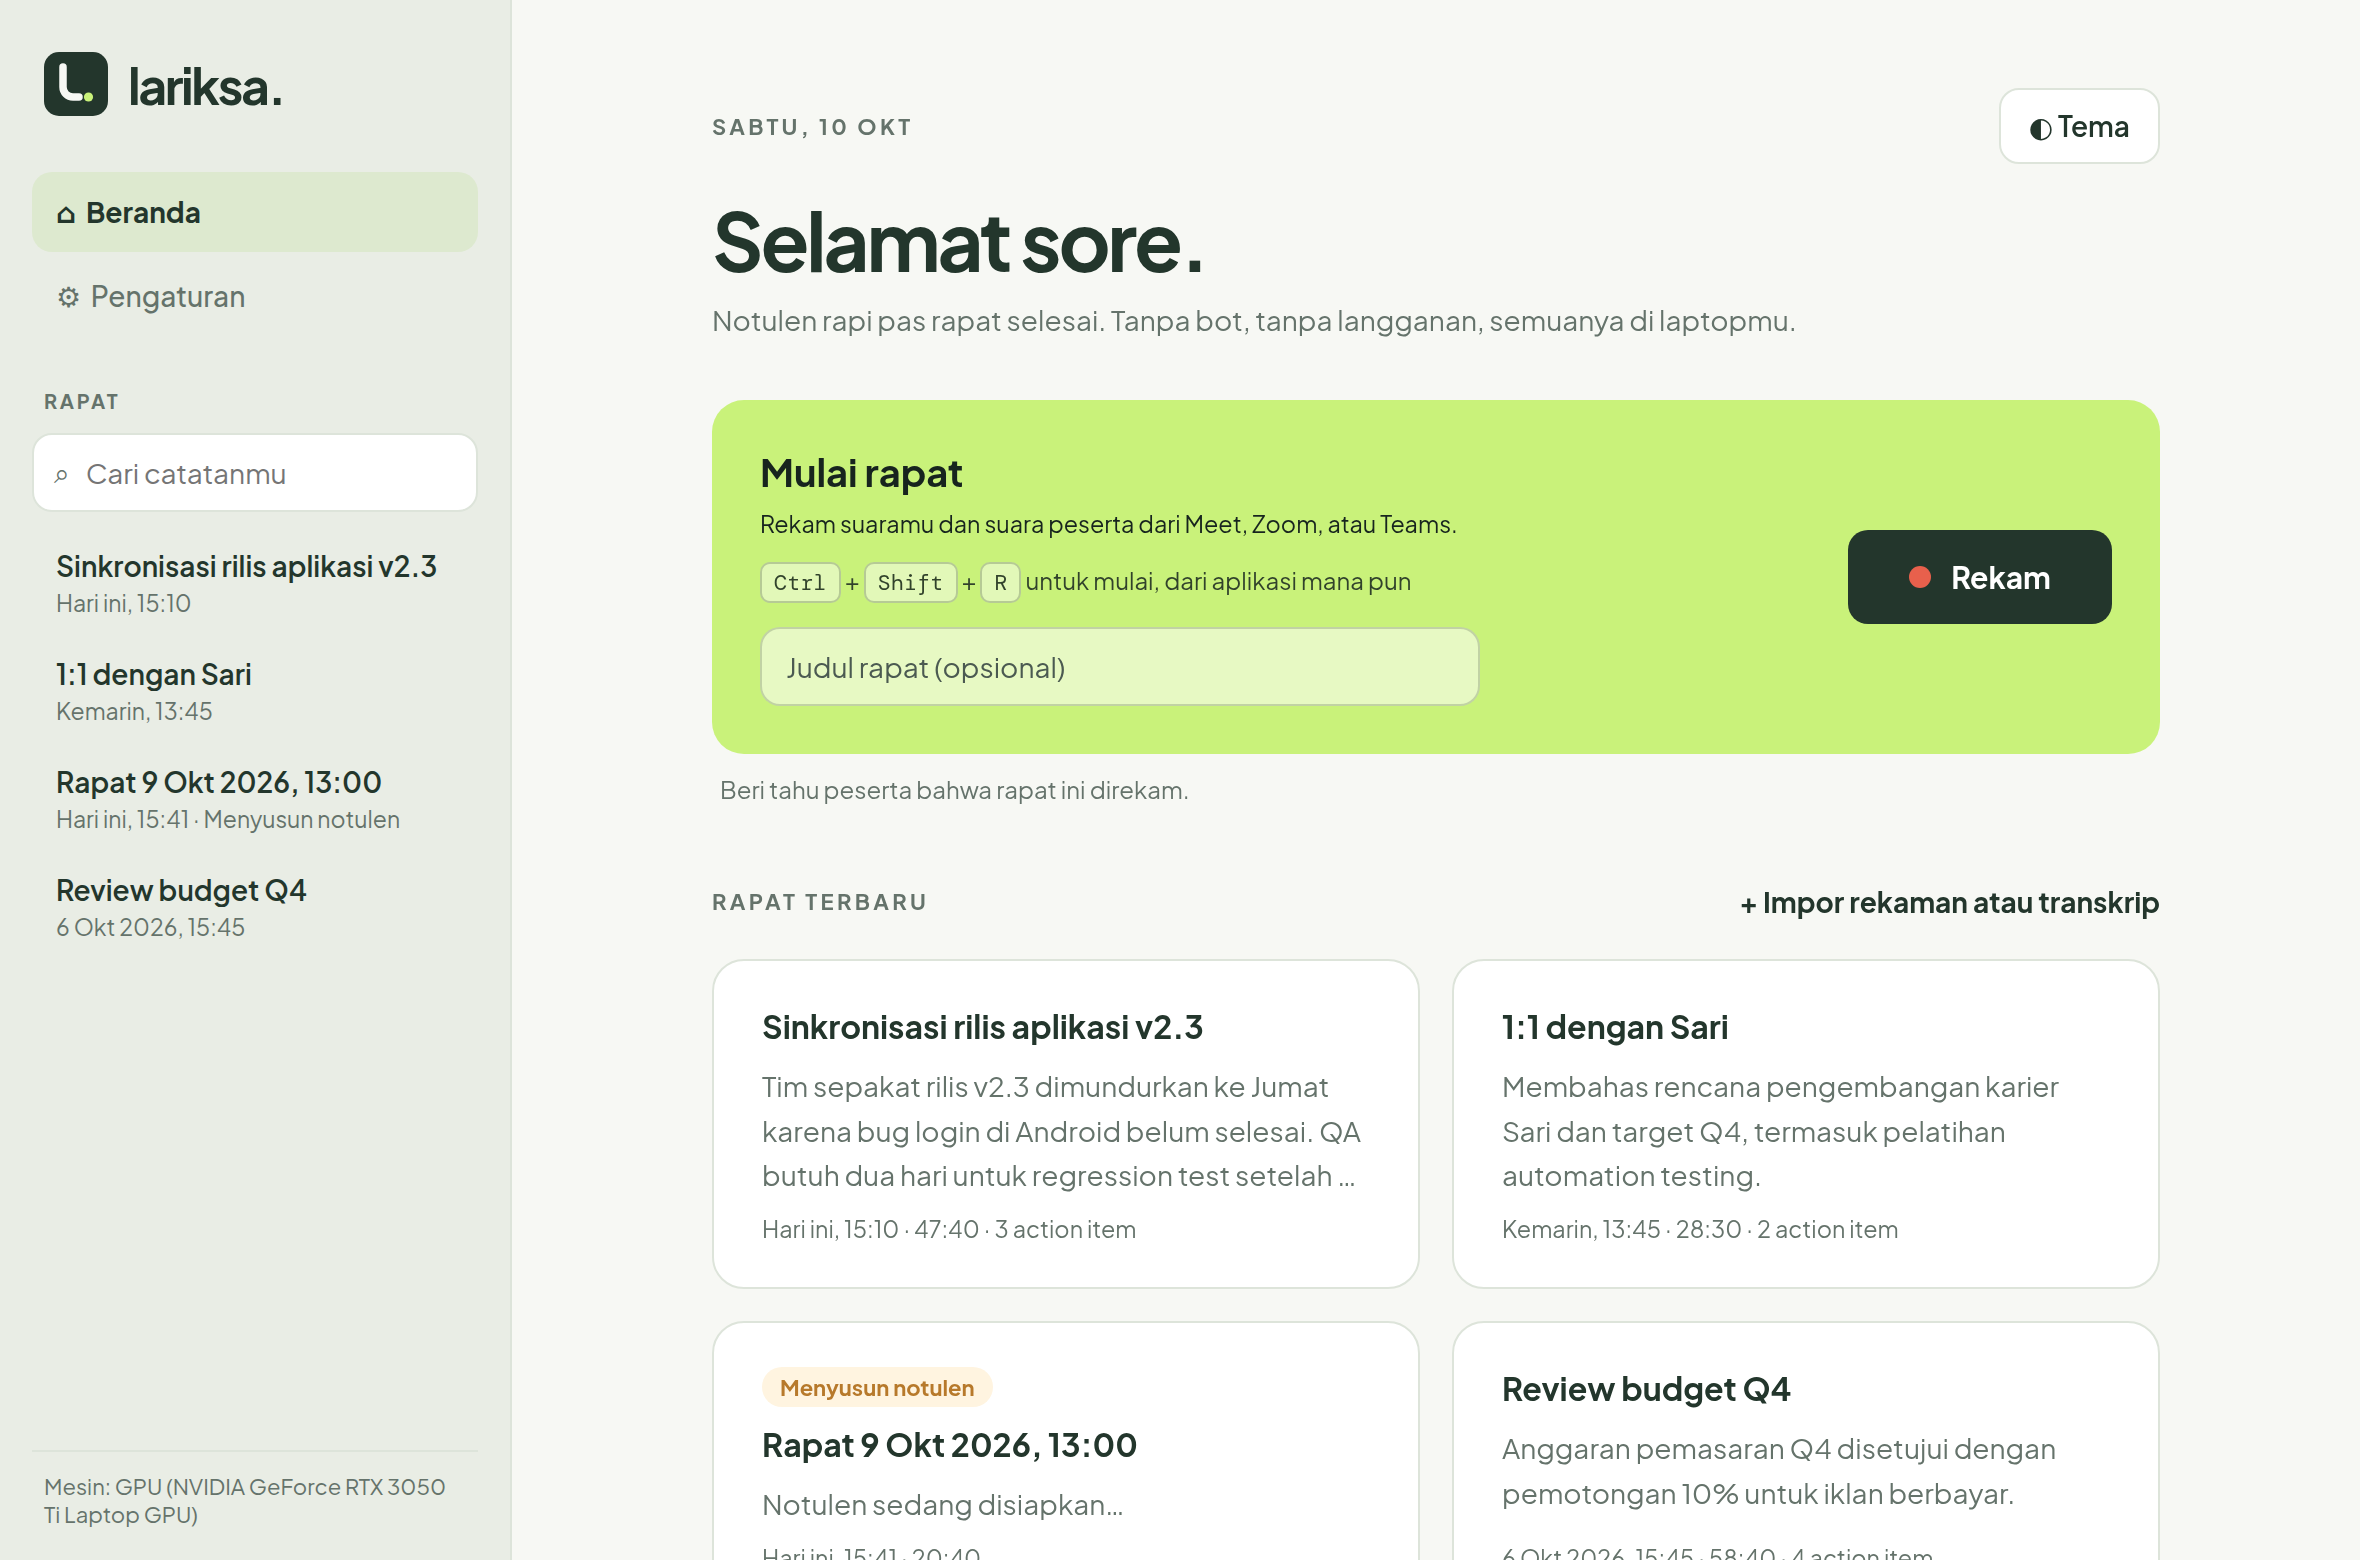
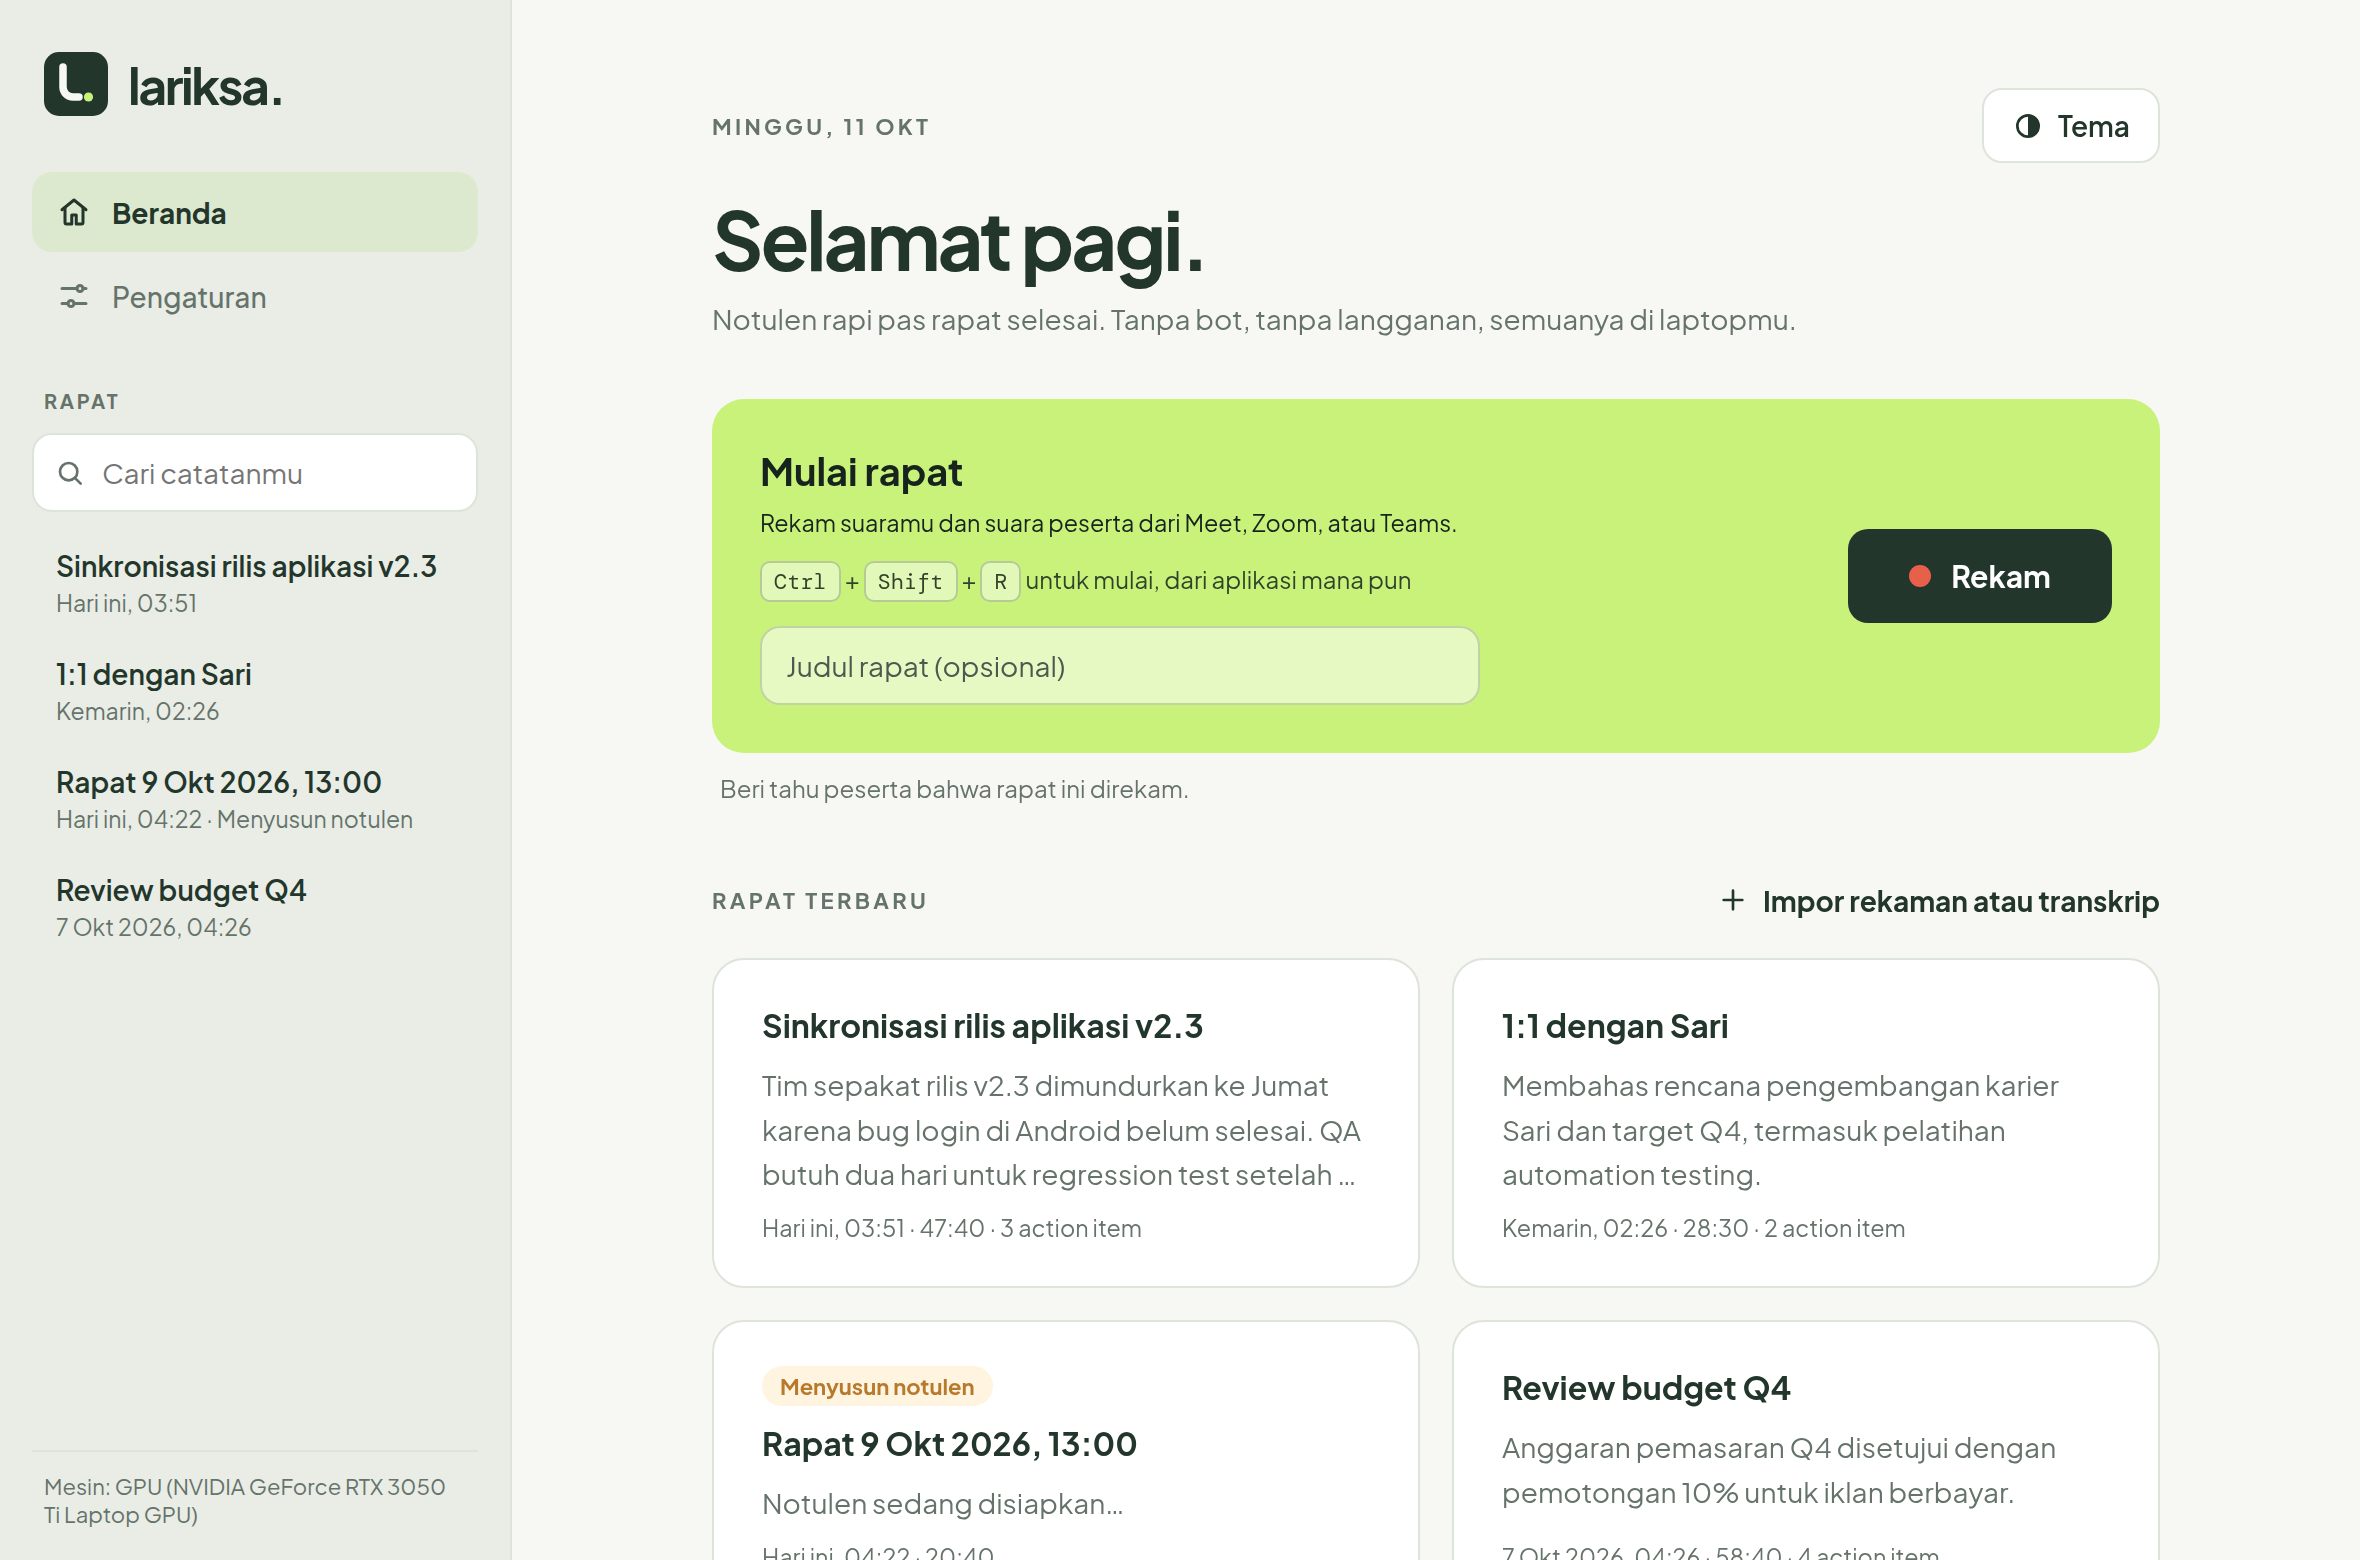
Readable chapter list in dark mode (fix), README visuals and release notes for 0.2.0

diff --git a/ui/styles.css b/ui/styles.css
@@ -14,7 +14,7 @@ button{cursor:pointer;border:0;border-radius:var(--radius-md);padding:11px 17px;
 button:active{transform:translateY(1px)}
 button:disabled{opacity:.5;cursor:default}
 :focus-visible{outline:3px solid var(--focus-ring);outline-offset:2px}
-[data-theme="dark"] button:not(.ghost):not(.link):not(.nav):not(.tab):not(.record-btn):not(.ts):not(.play){background:var(--brand-accent);color:#17241E}
+[data-theme="dark"] button:not(.ghost):not(.link):not(.nav):not(.tab):not(.record-btn):not(.ts):not(.play):not(.chapter-link){background:var(--brand-accent);color:#17241E}
 .hidden{display:none!important}
 code{font-family:var(--font-mono);font-size:12px;background:var(--surface-muted);padding:2px 6px;border-radius:var(--radius-sm)}
 
@@ -206,7 +206,7 @@ h1{font-size:40px;letter-spacing:-1.6px;margin:16px 0 6px;line-height:1.1}
 .side-card:empty{display:none}
 .side-card h5{font-size:11px;letter-spacing:.12em;color:var(--text-secondary);text-transform:uppercase;margin:0 0 10px}
 .toc{list-style:none;padding:0;margin:0;display:grid;gap:2px}
-.toc button,[data-theme="dark"] .toc button{display:grid;grid-template-columns:52px 1fr;gap:8px;width:100%;text-align:left;background:none;color:var(--text-primary);font-weight:500;padding:6px 6px;border-radius:8px;font-size:13px;line-height:1.35}
+.toc button{display:grid;grid-template-columns:52px 1fr;gap:8px;width:100%;text-align:left;background:none;color:var(--text-primary);font-weight:500;padding:6px 6px;border-radius:8px;font-size:13px;line-height:1.35}
 .toc button:hover,.toc button.now{background:var(--surface-active)}
 .toc time{font-family:var(--font-mono);font-size:11.5px;color:var(--text-secondary);padding-top:1px}
 .spk{display:grid;gap:9px}

diff --git a/docs/visuals/screens.html b/docs/visuals/screens.html
@@ -19,7 +19,7 @@ figcaption span{font-size:14.5px;color:var(--muted)}
   <figure><img class="shot" src="../assets/screen-recording.png"><figcaption><span class="n">02</span><div><b>Recording</b><br><span>Two level meters: you and the meeting.</span></div></figcaption></figure>
   <figure><img class="shot" src="../assets/screen-processing.png"><figcaption><span class="n">03</span><div><b>Processing</b><br><span>Stage and progress while you move on.</span></div></figcaption></figure>
   <figure><img class="shot" src="../assets/screen-transcript.png"><figcaption><span class="n">04</span><div><b>Transcript</b><br><span>Who said what, with timestamps.</span></div></figcaption></figure>
-  <figure><img class="shot" src="../assets/screen-settings.png"><figcaption><span class="n">05</span><div><b>Settings</b><br><span>Languages, model, glossary, downloads.</span></div></figcaption></figure>
+  <figure><img class="shot" src="../assets/screen-settings.png"><figcaption><span class="n">05</span><div><b>Settings</b><br><span>Display language, meeting languages, glossary, downloads.</span></div></figcaption></figure>
   <figure><img class="shot" src="../assets/screen-dark.png"><figcaption><span class="n">06</span><div><b>Dark theme</b><br><span>Brand palette, light and dark.</span></div></figcaption></figure>
 </div>
 </body></html>

diff --git a/ui/app.js b/ui/app.js
@@ -292,7 +292,7 @@ function renderSide(m) {
   const n = m.notulen;
   const toc = $("side-chapters");
   toc.replaceChildren(...(n?.chapters?.length ? [el("h5", {}, m.labels.chapters),
-    el("ul", { class: "toc" }, n.chapters.map((c) => el("li", {}, el("button", { "data-start": c.start, onclick: () => jumpTo(c.start, c.refs[0]) },
+    el("ul", { class: "toc" }, n.chapters.map((c) => el("li", {}, el("button", { class: "chapter-link", "data-start": c.start, onclick: () => jumpTo(c.start, c.refs[0]) },
       el("time", {}, clock(c.start)), el("span", {}, c.title)))))] : []));
 
   const spk = $("side-speakers");

diff --git a/README.md b/README.md
@@ -42,7 +42,7 @@ You can start the next meeting while the previous one is still processing; jobs 
 
 ![The same meeting as Indonesian notulen (Ringkasan, Keputusan, PIC) and as English notulen (Summary, Decisions, Owner).](docs/assets/languages.png)
 
-Indonesian with English work terms ("Jadi kita need to align soal deadline-nya") stays Indonesian. An English meeting gets English notulen, headings included, on screen and in every export. You can also pin one language in **Pengaturan** (Settings).
+Indonesian with English work terms ("Jadi kita need to align soal deadline-nya") stays Indonesian. An English meeting gets English notulen, headings included, on screen and in every export. You can also pin one language in **Pengaturan** (Settings). The app itself (menus, buttons, messages) can be shown in Bahasa Indonesia or English: **Pengaturan → Bahasa tampilan**.
 
 ## The app
 
@@ -58,7 +58,7 @@ Indonesian with English work terms ("Jadi kita need to align soal deadline-nya")
 | ![Notulen](docs/assets/screen-notulen.png) | ![Transcript](docs/assets/screen-transcript.png) |
 | **Notulen.** Click any text to edit; it saves automatically. | **Transcript.** Who said what, with timestamps. |
 | ![Settings](docs/assets/screen-settings.png) | ![Dark theme](docs/assets/screen-dark.png) |
-| **Settings.** Languages, model, glossary, downloads. | **Dark theme.** |
+| **Settings.** Display language, meeting languages, model, glossary, downloads. | **Dark theme.** |
 
 </details>
 

diff --git a/packaging/release-notes.md b/packaging/release-notes.md
@@ -28,6 +28,9 @@ Get-FileHash .\Lariksa-portable.zip -Algorithm SHA256
 | AI downloads | 4 GB (+1.3 GB NVIDIA) | 3.1 GB |
 | Transcribing 10 min on GPU | 21 s, NVIDIA only | 36 s, NVIDIA, AMD or Intel |
 
+- **New: display language.** Settings → Display language switches every screen, the recording indicator and app messages between Bahasa Indonesia and English, instantly. Notulen still follow the language of each meeting.
+- **Cleaner transcripts on laptop speakers.** When the mic picks up the meeting from the speakers, Whisper used to invent lines ("Terima kasih telah menonton", "Bersambung", one phrase repeated for minutes). Those are now removed, and "Detect automatically" no longer mistakes a quiet start for another language.
+- **One icon set** across the app, equal-width Settings cards, and a readable chapter list in the dark theme.
 - Transcription now uses whisper.cpp instead of faster-whisper. The wording of transcripts differs slightly from 0.1.0 (about 80% of words match on the same audio; neither is clearly more accurate), so regenerated notulen can differ a little too.
 - The NVIDIA download (cuBLAS and cuDNN, 1.3 GB) is gone: both engines use the GPU through Vulkan and pick the discrete GPU over the built-in one.
 
